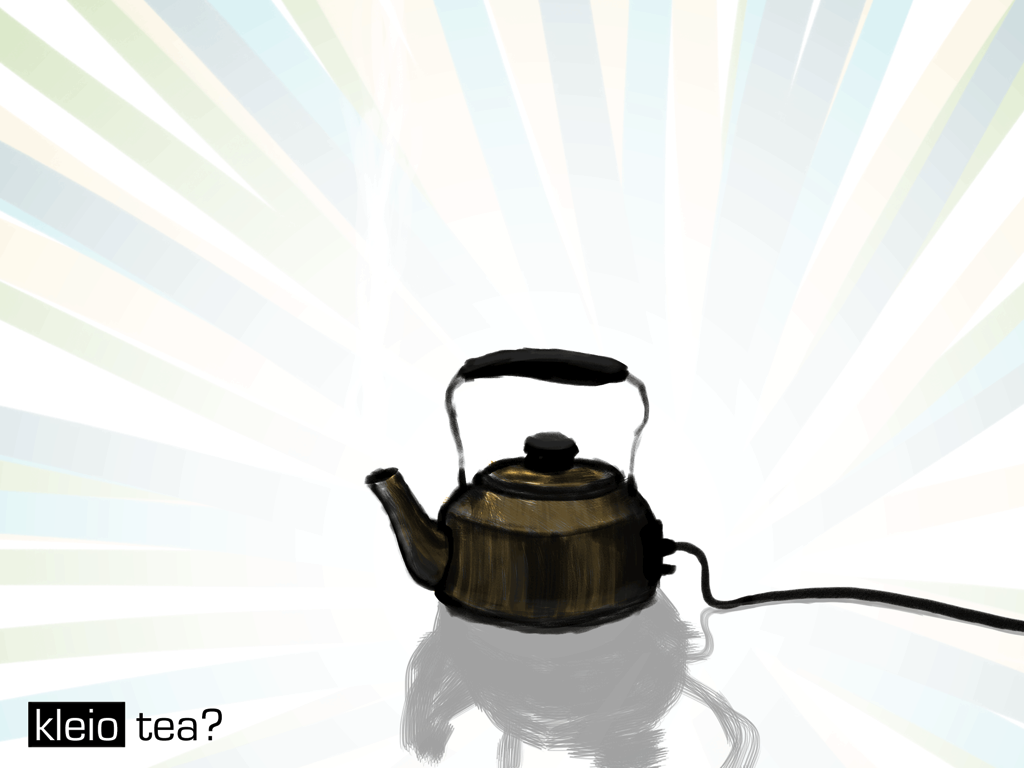
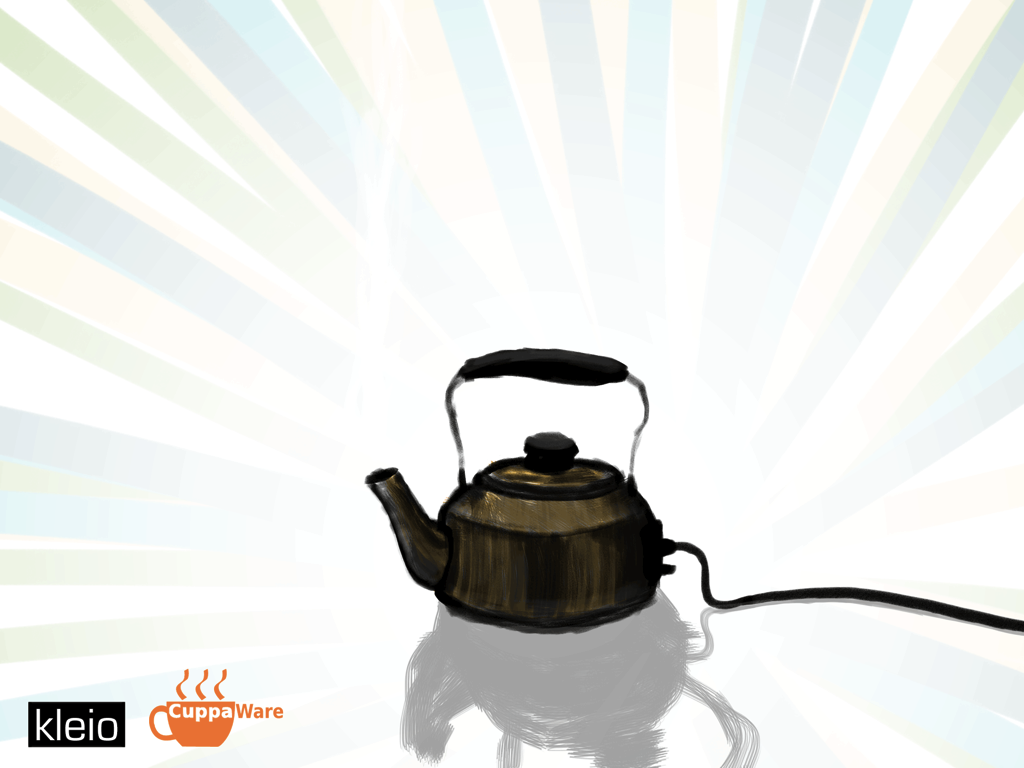
[iOS] Updated load screen, better alert views
* The load screens now feature the cuppaware logo
* I have made a singleton Utility class that shows
  alertviews in the main runloop, and also has functionality
  for remembering if a view has already been shown before,
  and supresses it if it has, and should only be shown once.
  This is a nice little refactor, and cleans up a lot of
  rather nasty code.

Changed region(s): [[0.125, 0.875, 0.2812, 1.0]]

diff --git a/kettle/kettle/GridMonitor.m b/kettle/kettle/GridMonitor.m
@@ -7,6 +7,7 @@
 //
 
 #import "GridMonitor.h"
+#import "Utilities.h"
 
 @implementation GridMonitor
 
@@ -31,7 +32,6 @@
 
 - (void) startMonitor
 {
-  BOOL hasReportedFaultyConnection = NO;
   BOOL previousState = YES;
   BOOL firstRun = YES;
   while (monitorRunning) {
@@ -42,15 +42,8 @@
     if (jsonData != nil) {
       NSDictionary *json = [NSJSONSerialization JSONObjectWithData:jsonData options:NSJSONReadingAllowFragments error:&jsonError];
       if (jsonError) {
-        NSLog(@"ERROR: Failed at reading the JSON data");
-        if (!hasReportedFaultyConnection) {
-          hasReportedFaultyConnection = YES;
-          [[[UIAlertView alloc] initWithTitle:@"Oh my" 
-                                      message:@"Something seems to be terribly wrong at the moment. Maybe try again later?" 
-                                     delegate:nil 
-                            cancelButtonTitle:nil 
-                            otherButtonTitles:@"Ok", nil] show];
-        }
+        [Utilities showAlert:@"Oh my" message:@"Something seems to be terribly wrong at the moment. Maybe try again later?"  msgIdentity:@"CannotParseJson"];
+
       } else {
         BOOL shouldMakeTea;
         if ([[json objectForKey:@"instruction"] isEqualToString:@"yes"]) {
@@ -67,14 +60,8 @@
         previousState = shouldMakeTea;
       }
     } else {
-      if (!hasReportedFaultyConnection) {
-        hasReportedFaultyConnection = YES;
-        [[[UIAlertView alloc] initWithTitle:@"What a shame" 
-                                    message:@"It seems we cannot connect to the tea-server. Are you certain you are connected to the internet? Maybe try again later?" 
-                                   delegate:nil 
-                          cancelButtonTitle:nil 
-                          otherButtonTitles:@"Ok", nil] show];
-      }
+      [Utilities showAlert:@"What a shame" message:@"It seems we cannot connect to the tea-server. Are you certain you are connected to the internet? Maybe try again later?" msgIdentity:@"NoInternet"];
+
     }
     sleep(1);
   }

diff --git a/kettle/kettle/MainViewController.m b/kettle/kettle/MainViewController.m
@@ -9,6 +9,7 @@
 #import "MainViewController.h"
 #import "GridMonitor.h"
 #import "NotificationViewController.h"
+#import "Utilities.h"
 
 @implementation MainViewController
 @synthesize happyAnimViewPortrait;
@@ -216,23 +217,17 @@
   CLGeocoder *geocoder = [[CLGeocoder alloc] init];
   [geocoder reverseGeocodeLocation:newLocation completionHandler:^(NSArray *placemarks, NSError *error) {
     if (error) {
-      // Notify the user that we coudln't reverse geolocate them...
-      [[[UIAlertView alloc] initWithTitle:@"Warning"
-                                 message:@"We don't know where you are. The power grid measurements we are using are only valid for the United Kingdom. If you are elsewhere, please disregard the advice given by this app"
-                                delegate:nil
-                       cancelButtonTitle:nil
-                       otherButtonTitles:@"Ok", nil] show];
-      
+
+      [Utilities showAlert:@"Warning" message:@"We don't know where you are. The power grid measurements we are using are only valid for the United Kingdom. If you are elsewhere, please disregard the advice given by this app" msgIdentity:@"LackOfGeoWarning"];
+            
     } else {
       CLPlacemark *placemark = [placemarks objectAtIndex:0];      
       NSString *country = [placemark country];
       if (![country isEqualToString:@"United Kingdom"]) {
+
         // Warn the user that the mesurements are not valid outside the UK.
-        [[[UIAlertView alloc] initWithTitle:@"Warning" 
-                                    message:@"You are outside the United Kingdom. The power grid measurements we are using are not valid for your location" 
-                                   delegate:nil 
-                          cancelButtonTitle:nil 
-                          otherButtonTitles:@"Ok", nil] show];
+        [Utilities showAlert:@"Warning" message:@"You are outside the United Kingdom. The power grid measurements we are using are not valid for your location" msgIdentity:@"OutsideUKWarning"];
+
       }
     }
   }];

diff --git a/kettle/kettle/Utilities.m b/kettle/kettle/Utilities.m
@@ -1,0 +1,54 @@
+//
+//  Utilities.m
+//  kettle
+//
+//  Created by Sebastian Eide on 22.07.12.
+//  Copyright (c) 2012 Kle.io. All rights reserved.
+//
+
+#import "Utilities.h"
+
+@implementation Utilities
+
+- (id) init
+{
+  self = [super init];
+  if (self)
+    msgIds = [NSMutableDictionary dictionary];
+  return self;
+}
+
+static Utilities *utility;
++ (id) getInstance
+{
+  if (utility == nil)
+    utility = [[Utilities alloc] init];
+  return utility;
+}
+
+- (BOOL) shouldShowAlertForId:(NSString *)msgId
+{
+  if (msgId == nil)
+    return YES;
+  if (![msgIds objectForKey:msgId]) {
+    [msgIds setObject:msgId forKey:msgId];
+    return YES;
+  }
+  return NO;
+}
+
++ (void) showAlert:(NSString *)title message:(NSString *)message msgIdentity:(NSString *)msgId
+{
+  Utilities *u = [Utilities getInstance];
+  if ([u shouldShowAlertForId:msgId]) {
+    dispatch_async(dispatch_get_main_queue(), ^{
+      [[[UIAlertView alloc] initWithTitle:title 
+                                  message:message
+                                 delegate:nil 
+                        cancelButtonTitle:nil 
+                        otherButtonTitles:@"Ok", nil] show];
+    });
+  }
+}
+
+@end

diff --git a/kettle/kettle/AppDelegate.m b/kettle/kettle/AppDelegate.m
@@ -10,6 +10,7 @@
 #import "AVFoundation/AVFoundation.h"
 #import "MainViewController.h"
 #import "GridMonitor.h"
+#import "Utilities.h"
 
 @implementation AppDelegate
 
@@ -117,11 +118,7 @@
 }
 
 - (void)connection:(NSURLConnection *)connection didFailWithError:(NSError *)error {
-  [[[UIAlertView alloc] initWithTitle:NSLocalizedString(@"Error", @"")
-                              message:[error localizedDescription]
-                             delegate:nil
-                    cancelButtonTitle:NSLocalizedString(@"OK", @"") 
-                    otherButtonTitles:nil] show];
+  [Utilities showAlert:@"Error" message:[error localizedDescription] msgIdentity:nil];
 }
 
 - (void)connectionDidFinishLoading:(NSURLConnection *)connection {

diff --git a/kettle/kettle/Utilities.h b/kettle/kettle/Utilities.h
@@ -1,0 +1,19 @@
+//
+//  Utilities.h
+//  kettle
+//
+//  Created by Sebastian Eide on 22.07.12.
+//  Copyright (c) 2012 Kle.io. All rights reserved.
+//
+
+#import <Foundation/Foundation.h>
+
+@interface Utilities : NSObject
+{
+  NSMutableDictionary *msgIds;
+}
+
++ (id) getInstance;
++ (void) showAlert:(NSString *)title message:(NSString *)message msgIdentity:(NSString *)msgId;
+
+@end
